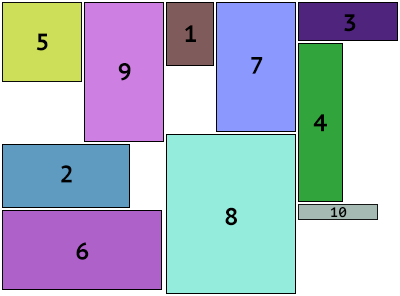
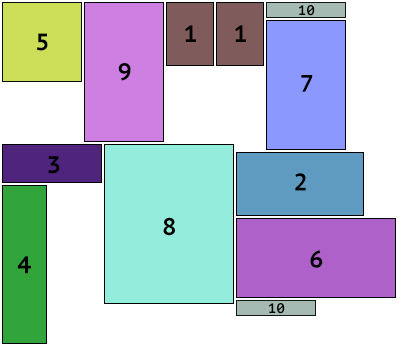
feat: json texture packer saving json

diff --git a/spritesheet/src/main.rs b/spritesheet/src/main.rs
@@ -11,22 +11,22 @@ extern crate regex;
 extern crate image;
 extern crate texture_packer;
 
-mod file_name;
+mod file_data;
+mod file_texture;
 mod serialize;
 
-use std::fs;
-use std::fs::File;
-
-use texture_packer::texture::Texture;
 use texture_packer::{TexturePacker, TexturePackerConfig};
-use texture_packer::importer::ImageImporter;
 use texture_packer::exporter::ImageExporter;
 
+use std::fs::File;
 
 fn main() {
-    //
+    // Initial setup
+    let input_folder = "assets/".to_string();
+    let output_folder = "resources/".to_string();
+    let output_file_name = "skyline-packer-output".to_string();
+
     // Perform texture packing
-    //
     let config = TexturePackerConfig {
         max_width: 400,
         max_height: 400,
@@ -35,36 +35,20 @@ fn main() {
         border_padding: 2,
         ..Default::default()
     };
-
     let mut packer = TexturePacker::new_skyline(config);
-
-    if let Ok(entries) = fs::read_dir("assets/") {
-
-        for entry in entries {
-            if let Ok(entry) = entry {
-                let file_name = entry.file_name().into_string().unwrap();
-                let file = file_name::extract(&file_name);
-                let texture = ImageImporter::import_from_file(&entry.path())
-                    .unwrap();
-
-                packer.pack_own(file.name, texture);
-            }
-        }
+    for file_textures in file_texture::find_all(input_folder) {
+        packer.pack_own(file_textures.file.name, file_textures.texture);
     }
 
-    //
-    // Print the information
-    // TODO: save this in a .json file
-    //
-    println!("Dimensions : {}x{}", packer.width(), packer.height());
+    // Save Json
     let atlas = serialize::to_atlas(packer.get_frames());
-    let json = serialize::to_json(atlas);
-    println!("{}", json.unwrap());
+    let json_path = format!("{}{}.json", output_folder, output_file_name);
+    let json_file = File::create(json_path).unwrap();
+    serde_json::to_writer_pretty(json_file, &atlas).unwrap();
 
-    //
-    // Save the result
-    //
+    // Save Image
     let exporter = ImageExporter::export(&packer).unwrap();
-    let mut file = File::create("resources/skyline-packer-output.png").unwrap();
-    exporter.write_to(&mut file, image::PNG).unwrap();
+    let image_path = format!("{}{}.png", output_folder, output_file_name);
+    let mut image_file = File::create(image_path).unwrap();
+    exporter.write_to(&mut image_file, image::PNG).unwrap();
 }

diff --git a/spritesheet/src/file_data.rs b/spritesheet/src/file_data.rs
@@ -1,0 +1,45 @@
+use std::path::PathBuf;
+use regex::{Regex};
+
+#[derive(Serialize, Deserialize, Debug)]
+pub struct FileData {
+    pub path: PathBuf,
+    pub name: String,
+    pub ext: String,
+}
+
+pub fn extract(path: PathBuf) -> FileData {
+    lazy_static! {
+        static ref RE: Regex = Regex::new(
+            r"(?P<name>[^:\\/]*?)(?:\.(?P<ext>[^ :\\/.]*))?$"
+        ).unwrap();
+    }
+    let file = RE.captures(&path.to_str().unwrap()).unwrap();
+
+    FileData {
+        path: path.clone(),
+        name: String::from(&file["name"]),
+        ext: String::from(&file["ext"]),
+    }
+}
+
+#[cfg(test)]
+mod tests {
+    use super::*;
+
+    #[test]
+    fn should_extract_file_name() {
+        let path = PathBuf::from(r"C:\windows\filename.ext");
+        let file = extract(path.clone());
+        assert_eq!(file.path, path);
+        assert_eq!(file.name, "filename");
+    }
+
+    #[test]
+    fn should_extract_file_extension() {
+        let path = PathBuf::from(r"./folder/something.ext");
+        let file = extract(path.clone());
+        assert_eq!(file.path, path);
+        assert_eq!(file.ext, "ext");
+    }
+}

diff --git a/spritesheet/src/file_texture.rs b/spritesheet/src/file_texture.rs
@@ -1,0 +1,33 @@
+use file_data;
+use image;
+
+use std::fs;
+use texture_packer::importer::ImageImporter;
+
+pub struct FileTexture {
+    pub file: file_data::FileData,
+    pub texture: image::DynamicImage,
+}
+
+pub fn find_all (folder: String) -> Vec<FileTexture> {
+    let mut file_list = Vec::new();
+    if let Ok(entries) = fs::read_dir(&folder) {
+        for entry in entries {
+            if let Ok(entry) = entry {
+                if let Ok(metadata) = entry.metadata() {
+                    if metadata.is_dir() {
+                        let file_name = entry.file_name().into_string().unwrap();
+                        let child_folder = format!("{}{}/", &folder, file_name);
+                        file_list.extend(find_all(child_folder));
+                    } else {
+                        let file = file_data::extract(entry.path());
+                        let texture = ImageImporter::import_from_file(&entry.path())
+                            .unwrap();
+                        file_list.push(FileTexture {file, texture});
+                    }
+                }
+            }
+        }
+    }
+    file_list
+}

diff --git a/spritesheet/src/serialize.rs b/spritesheet/src/serialize.rs
@@ -2,9 +2,6 @@ use std::collections::HashMap;
 
 use texture_packer;
 
-use serde_json;
-use serde_json::Error;
-
 #[derive(Serialize, Deserialize, Debug)]
 pub struct Frame {
     x: u32,
@@ -37,11 +34,6 @@ pub fn to_atlas(frames: &HashMap<String, texture_packer::Frame>) -> Atlas {
     return Atlas { frames: frames_map };
 }
 
-pub fn to_json(atlas: Atlas) -> Result<(String), Error> {
-    let json = serde_json::to_string(&atlas)?;
-    Ok(json)
-}
-
 #[cfg(test)]
 mod tests {
     use super::*;
@@ -72,16 +64,5 @@ mod tests {
         assert_eq!(converted.y, created.y);
         assert_eq!(converted.w, created.w);
         assert_eq!(converted.h, created.h);
-    }
-
-    #[test]
-    fn should_convert_to_json() {
-        let mut created_frames: HashMap<String, Frame> = HashMap::new();
-        created_frames.insert("test1".to_string(), Frame { x: 0, y: 0, w: 0, h: 0 });
-
-        let atlas = to_json(Atlas { frames: created_frames} ).unwrap();
-        let json = "{\"frames\":{\"test1\":{\"x\":0,\"y\":0,\"w\":0,\"h\":0}}}";
-
-        assert_eq!(atlas, json);
     }
 }
